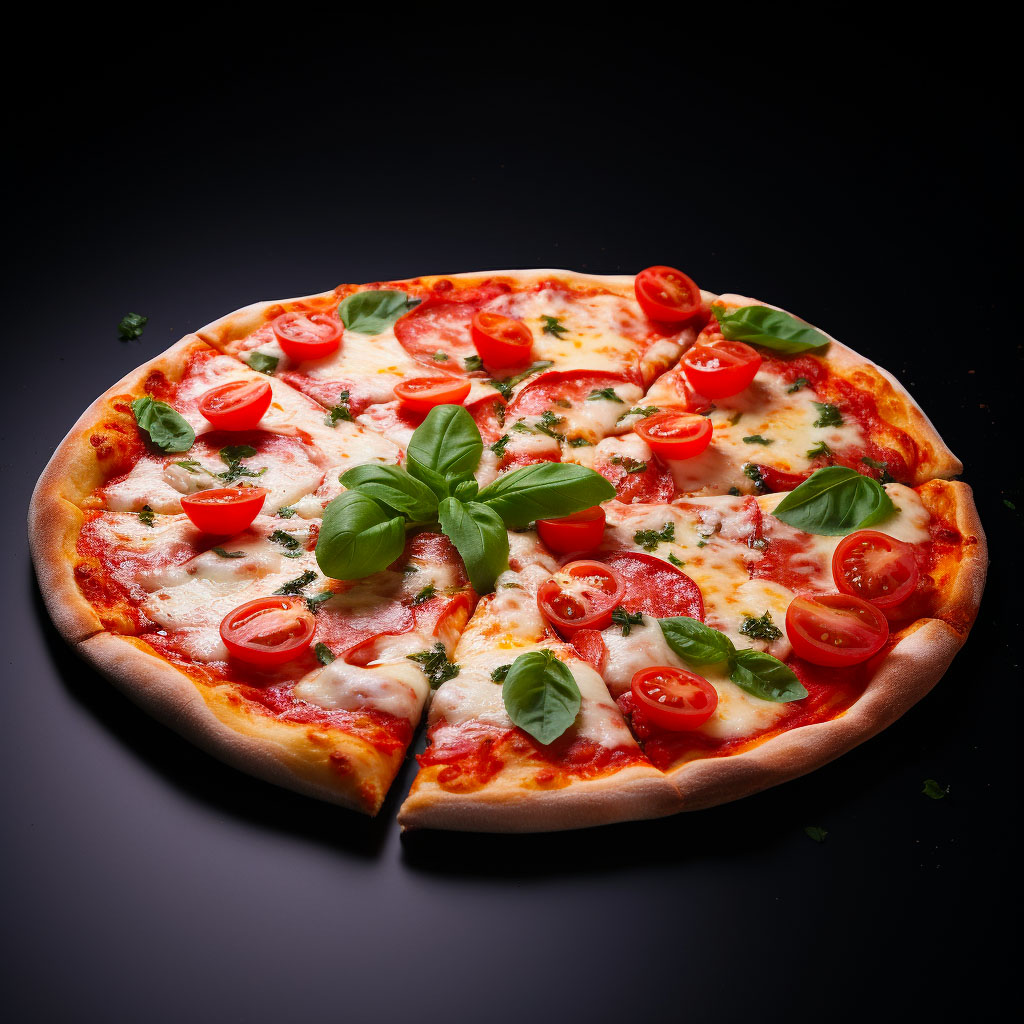
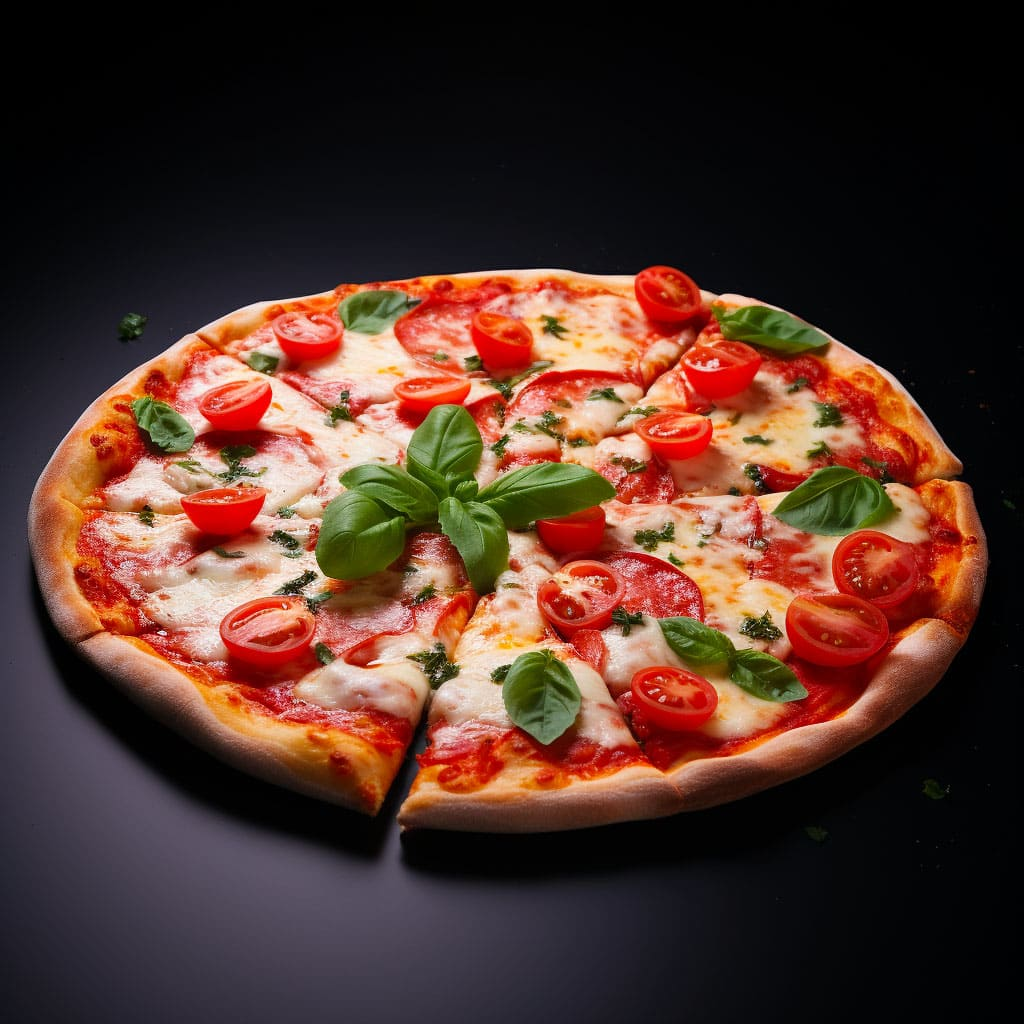
compressed default pizza image size

diff --git a/src/components/MealItem.jsx b/src/components/MealItem.jsx
@@ -1,7 +1,7 @@
 import React, { useContext } from "react";
 import Button from "./Button";
 import { CartContext } from "../store/cartContext";
-import pizza from "../assets/images/margherita-pizza.jpg"; // Adjust the path if needed
+import pizza from "../assets/images/margherita-pizza.webp"; // Adjust the path if needed
 import st from "../../appWrite/storage";
 
 export default function MealItem({ meal }) {

diff --git a/src/components/Modal.jsx b/src/components/Modal.jsx
@@ -1,6 +1,5 @@
 import React, { useContext, useEffect, useRef } from "react";
-import logo from "../assets/logo.jpg";
-import Button from "./Button";
+
 import { CartContext } from "../store/cartContext";
 import { createPortal } from "react-dom";
 export default function Modal({ children, open, className = "" }) {
